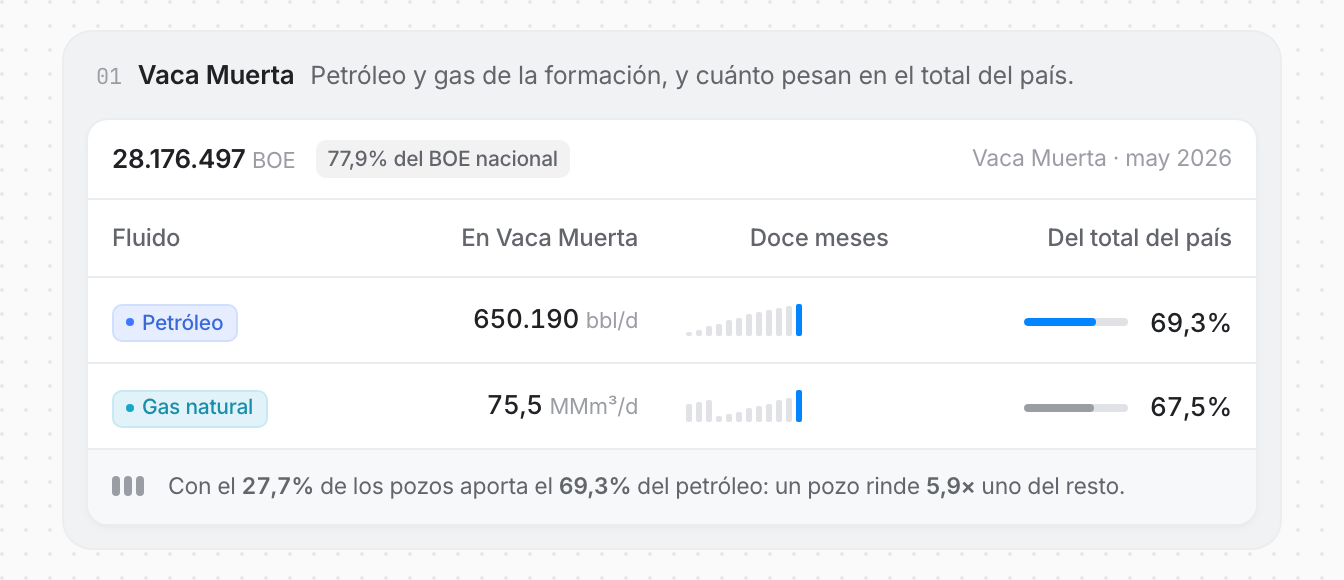
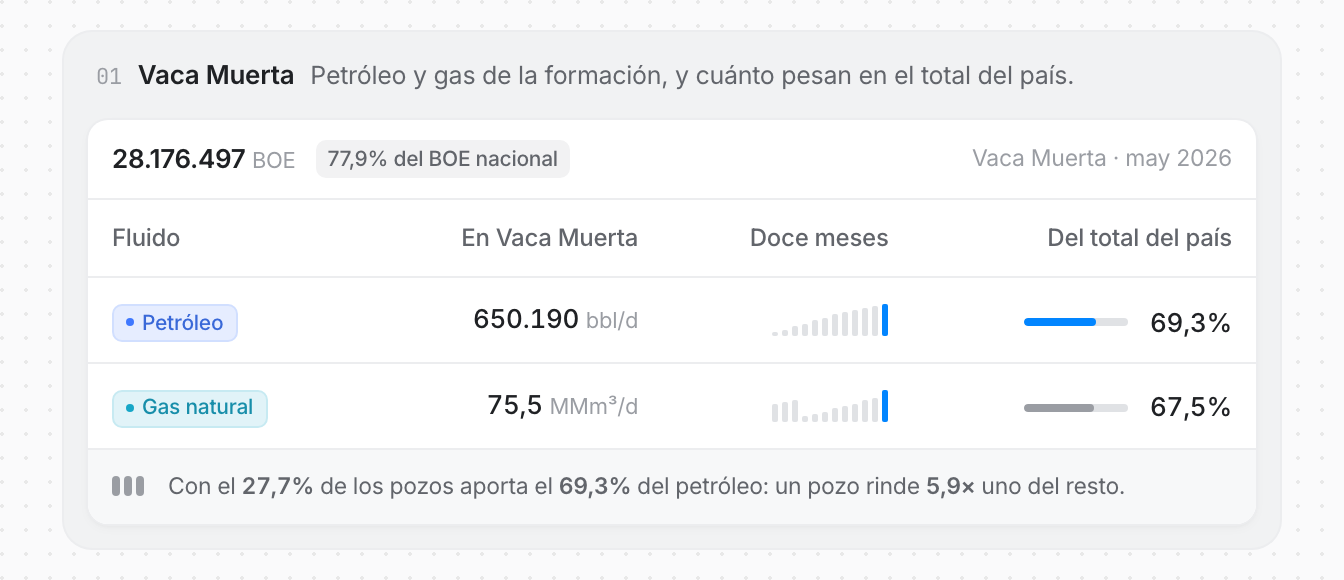
v2(dashboard): alinear las series con su columna
.s-serie es display:flex, o sea bloque, y le gana a la utilidad inline-flex por
orden de fuente. Con eso el text-right de la celda no la movía: la serie se
estiraba a todo el ancho y las barras quedaban pegadas a la izquierda mientras
la cabecera y el resto de la columna iban a la derecha. Las barras terminaban
en 357 con la columna cerrando en 400.

Con justify-end las cuatro columnas cierran donde tienen que cerrar. Medido:
cabecera «Doce meses» en 400, serie de petróleo en 400, serie de gas en 400;
cabecera «Del total del país» en 572 y su porcentaje en 572.

Changed region(s): [[0.5, 0.6828, 0.6875, 0.7448], [0.5, 0.5276, 0.6875, 0.5897]]

diff --git a/apps/ui-prototype/src/app/v2/page.tsx b/apps/ui-prototype/src/app/v2/page.tsx
@@ -113,7 +113,11 @@ export default function V2Inicio() {
                   </span>
                 </td>
                 <td className="hidden text-right sm:table-cell">
-                  <Serie valores={doceMeses.map((p) => p.oil)} className="inline-flex align-middle" />
+                  {/* justify-end y no inline-flex: .s-serie es display:flex y le gana a
+                      la utilidad, así que el text-right de la celda no la movía y las
+                      barras quedaban pegadas a la izquierda mientras el resto de la
+                      columna iba a la derecha. */}
+                  <Serie valores={doceMeses.map((p) => p.oil)} className="justify-end" />
                 </td>
                 <td className="text-right">
                   <span className="inline-flex items-center gap-2">
@@ -135,7 +139,7 @@ export default function V2Inicio() {
                   </span>
                 </td>
                 <td className="hidden text-right sm:table-cell">
-                  <Serie valores={doceMeses.map((p) => p.gas)} className="inline-flex align-middle" />
+                  <Serie valores={doceMeses.map((p) => p.gas)} className="justify-end" />
                 </td>
                 <td className="text-right">
                   <span className="inline-flex items-center gap-2">
